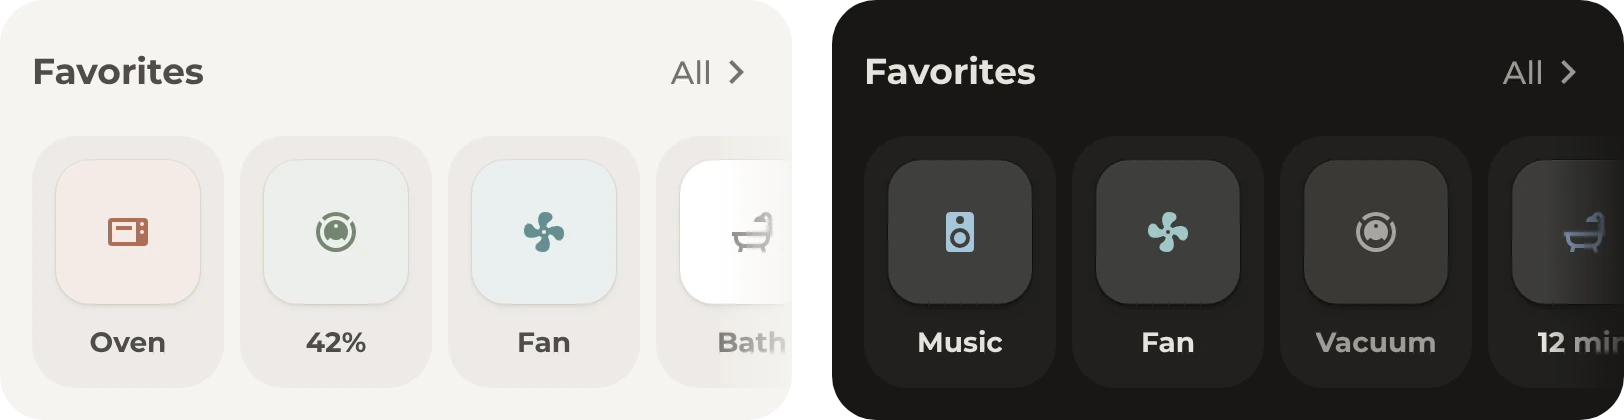
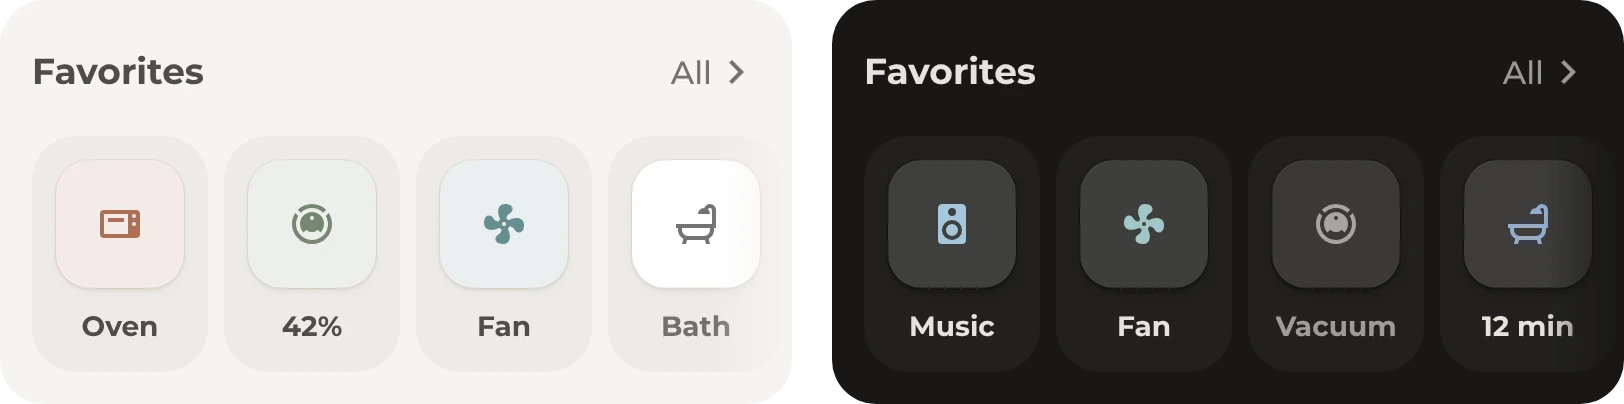
Smaller box fields, scene names in the text color, the dot closer to its line
- Button: a box's field is 64 px by default, the theme's control-height-lg.
- A box whose field holds a picture or colors, such as a scene, keeps its name in
  the text color, because it is never off.
- The active scene's dot stands 6 px from the line under its name.

diff --git a/CHANGELOG.md b/CHANGELOG.md
@@ -102,7 +102,7 @@ These changes are in the `next` branch and come with the next release.
 - `active` also matches the entity that a button's tap targets.
 - Each button can have its own `name`, `icon`, `color`, `name_color`, `background` and `order` under an `origami_button` key. Its `color` is also its lamp color while it is lit.
 - A lit button is tinted in its own lamp color, such as the state color of its entity, instead of always the card's.
-- A button with `content_layout: icon-top` is a box like a tile, with its icon in a field above its name, 12 px around the field, 14 px above the text and 18 px below it, and the boxes in a row share one width. A box's name is bold. A lit box tints its field in its own color, as a lit tile does, and a box whose field holds a picture or colors gets a small dot before the line under its name instead. The field has the corners of the icon on a tile, `radius-inner`. A button's own `field` fills the field with a picture or a gradient instead of the icon, and its `label` adds a second line under the name, such as a scene's brightness. Both also work with `labels: below`.
+- A button with `content_layout: icon-top` is a box like a tile, with its icon in a field above its name, 12 px around the field, 14 px above the text and 18 px below it, and the boxes in a row share one width. A box's name is bold. A lit box tints its field in its own color, as a lit tile does, and a box whose field holds a picture or colors gets a small dot before the line under its name instead and keeps its name in the text color. The field has the corners of the icon on a tile, `radius-inner`. A button's own `field` fills the field with a picture or a gradient instead of the icon, and its `label` adds a second line under the name, such as a scene's brightness. Both also work with `labels: below`.
 - A button with `css_class: divider` is a short line between two buttons.
 - The active segment of a bar or a small switch has the fill of an active button with `active_style: toggle`, and it casts the chip shadow.
 - On a button card, a lit button has the tint of the card's lit icon. On a tile, the buttons have the card background and the chip shadow, as keys do.

diff --git a/bubble_card/README.md b/bubble_card/README.md
@@ -840,7 +840,7 @@ The Button module creates rows and grids of buttons on a sub-buttons card, and s
 | `label_size` | `large` | The size of segment labels. `large` suits short figures, and `normal` suits words. |
 | `scroll` | `false` | The buttons stay in one row that scrolls sideways, and `columns` has no effect. The row reaches past the card to the screen's edge, and only its buttons take taps, so a tap beside them reaches the card next to it. The card is as tall as its buttons, and the row reaches past it only at its sides, so a pop-up that scrolls ends right below it. |
 | `labels` | `inside` | `below` makes each button a large icon field with its name under it, as for scenes, with larger icons unless `icon_size` is set. A field without a name is a square. |
-| `field_size` | `var(--tile-size-lg)` | The size of the icon fields with `labels: below`, such as `76px`, and of a stacked button's field, 72 px by default. |
+| `field_size` | `var(--tile-size-lg)` | The size of the icon fields with `labels: below`, such as `76px`, and of a stacked button's field, 64 px by default. |
 | `outline` | | Takes the same values as `active`. Matching buttons that are not active get a ring, such as a suggested scene. |
 | `start` | | Takes the same values as `active`. The row begins at the matching button, and the buttons before it move to the end. |
 
